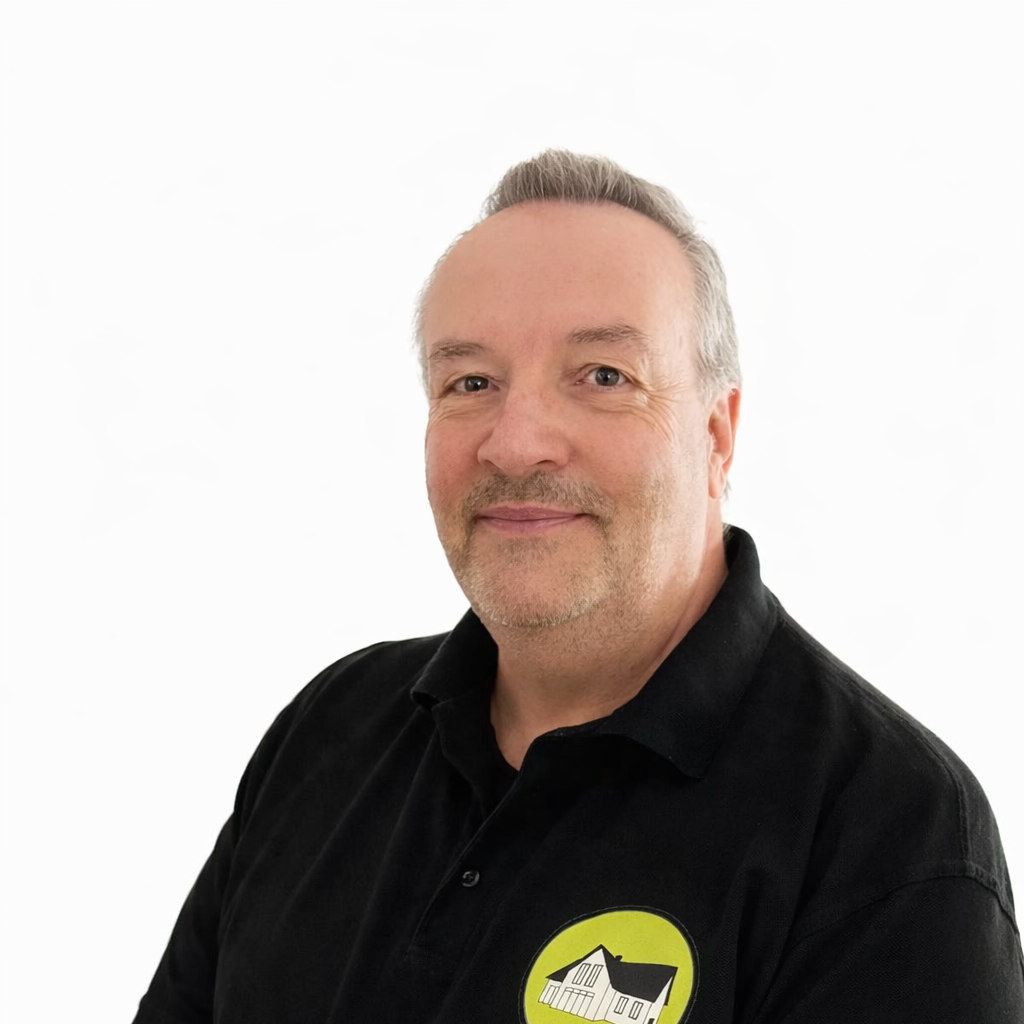
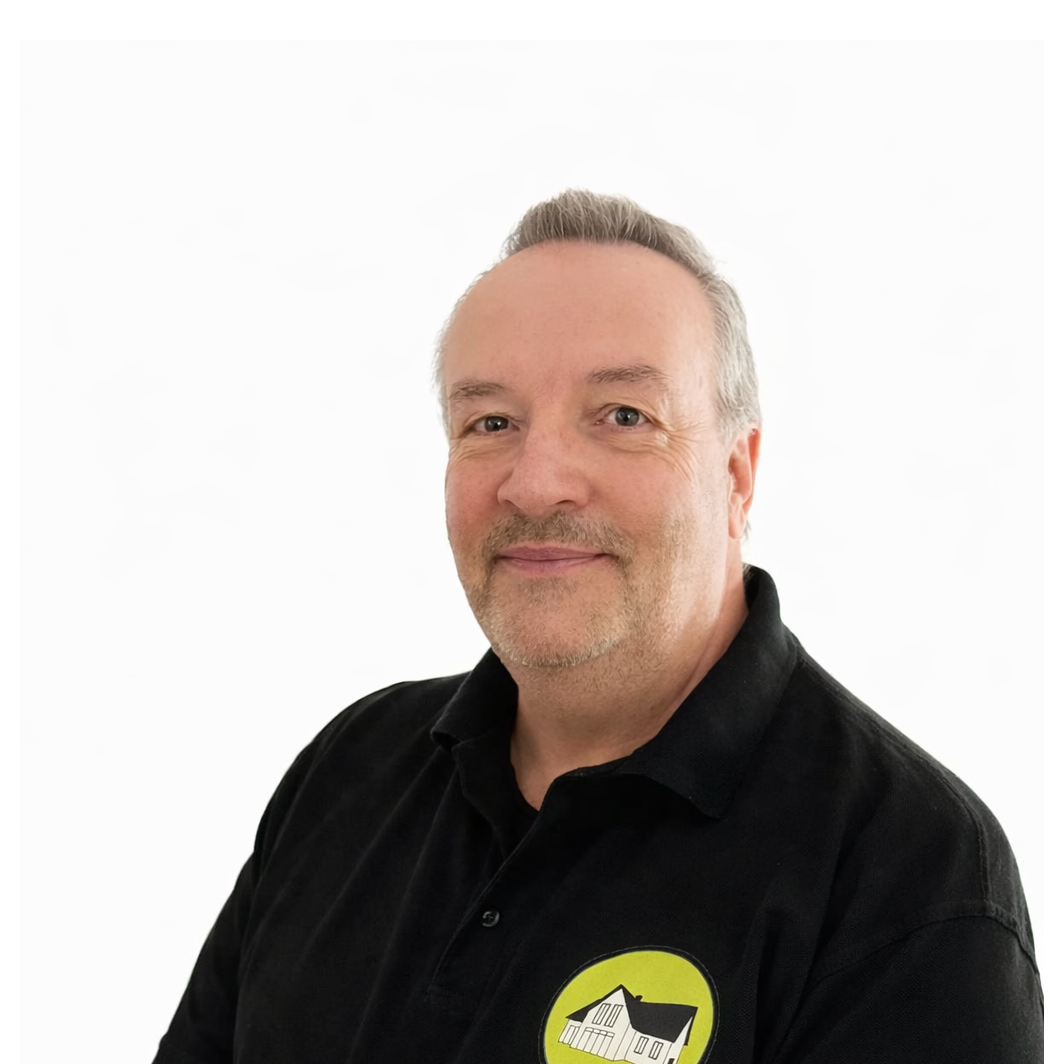
Fix team photo crops for Ross, Fran, and Keith
Ross and Fran had portrait source photos being cropped oddly in the
square avatar circles; re-cropped to square, framed on head/shoulders.
Keith's square photo had excess headroom baked in with no CSS lever to
fix it, so re-padded the source to pull him into better proportion.

diff --git a/src/app/page.tsx b/src/app/page.tsx
@@ -57,7 +57,7 @@ const team = [
 	{
 		name: "Fran",
 		role: "Technologist",
-		image: `${base}/media/team/fran.png`,
+		image: `${base}/media/team/fran-new.png`,
 	},
 ];
 
